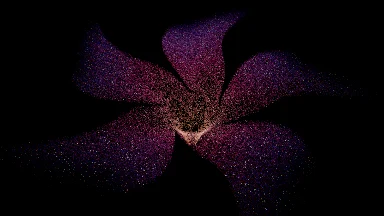
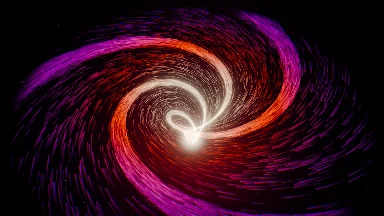
feat: comet trails for particle vortex

diff --git a/src/modes/particle-vortex/index.ts b/src/modes/particle-vortex/index.ts
@@ -1,131 +1,180 @@
 import * as THREE from 'three';
 import type { AudioFeatures } from '../../audio/types';
-import { DotGrid } from '../../engine/field/primitives';
+import { SpectrumHistory, spectrumHistoryGlsl } from '../../engine/field/SpectrumHistory';
+import { Starfield } from '../../engine/field/Starfield';
+import { Streaks } from '../../engine/field/Streaks';
+import { FullscreenPass, renderOver } from '../../engine/fullscreen';
 import { findMode } from '../../engine/ModeRegistry';
 import type { ModeContext, ModeDefinition, VisualMode } from '../../engine/types';
+import { hue, palette, tint } from '../../shared/glsl';
 
-// Fünf Blütenblätter modulieren den Radius
+const ROWS = 60;
+const ARMS = 3;
+
+// Kometenspuren strömen auf Spiralarmen in einen glühenden Trichter
 const glsl = `
-#define DOT_SIZE_FN
-uniform float uSpin;
+${spectrumHistoryGlsl(ROWS)}
+uniform float uFlow;
 uniform float uSuck;
-uniform float uPetal;
-uniform float uTreble;
-uniform float uFlash;
-
+uniform float uSpin;
+uniform float uHue;
 const float TAU = 6.2831853;
-float h21(vec2 p, float k) { return fract(sin(dot(p, vec2(127.1, 311.7)) + k * 74.7) * 43758.5453); }
+const float R_OUT = 3.4;
+const float R_IN = 0.12;
 
-struct P { vec3 pos; float r0; float glitter; };
+float radiusAt(float s) { return mix(R_OUT, R_IN, pow(clamp(s, 0.0, 1.0), 0.75)); }
 
-P particle(vec2 g) {
-  float h1 = h21(g, 1.0), h2 = h21(g, 2.0), h3 = h21(g, 3.0), h4 = h21(g, 4.0);
-  P p;
-  p.r0 = 0.12 + pow(h2, 0.7) * 2.3;
-  float theta = h1 * TAU;
-  // Partikel bündeln sich in fünf Armen, leicht gestreut
-  theta = floor(theta / TAU * 5.0) / 5.0 * TAU + (h4 - 0.5) * (0.5 + 0.4 / p.r0);
-  theta += log(p.r0) * 1.6 + uSpin / pow(0.25 + p.r0, 1.25);
-  float r = p.r0 * (1.0 + 0.16 * sin(5.0 * theta + uPetal));
-  // Bass saugt das Innere ein und lässt es zurückfedern
-  r *= 1.0 - uSuck * 0.28 * exp(-p.r0 * 0.6);
-  float y = -0.6 / (r + 0.3) + 0.35 + (h3 - 0.5) * (0.04 + 0.05 * r);
-  p.pos = vec3(cos(theta) * r, y, sin(theta) * r);
-  p.glitter = h21(g, 5.0) > 0.975 ? 1.0 : 0.0;
-  return p;
+vec3 streakPath(vec4 seed, float s) {
+  float r = radiusAt(s) * (1.0 - uSuck * 0.22 * (1.0 - s));
+  // Drei Arme, ein Teil der Spuren streut frei dazwischen
+  float arm = floor(seed.x * ${ARMS}.0);
+  float free = step(0.72, seed.y);
+  float spread = mix(0.35, 3.14159, free) * (seed.z - 0.5);
+  float th = arm / ${ARMS}.0 * TAU + spread - log(r) * 2.1 + uSpin;
+  // Trichter: je näher am Kern, desto tiefer
+  float y = -0.55 / (r + 0.18) + 0.2 + (seed.w - 0.5) * 0.06 * r;
+  return vec3(cos(th) * r, y, sin(th) * r);
 }
 
-vec3 dotPos(vec2 g) { return particle(g).pos; }
-
-float dotIntensity(vec2 g) {
-  P p = particle(g);
-  float core = exp(-p.r0 * 1.3) * (1.6 + uFlash * 2.5);
-  float tw = p.glitter * (1.5 + 3.0 * uTreble) * (0.5 + 0.5 * sin(uTime * (6.0 + 14.0 * h21(g, 6.0)) + h21(g, 7.0) * 60.0));
-  float edge = smoothstep(2.5, 1.6, p.r0);
-  return (0.55 + core * 1.3 + tw) * edge;
+vec2 streakSpan(vec4 seed) {
+  float len = 0.02 + seed.w * 0.035;
+  float speed = 0.035 + seed.z * 0.03;
+  return vec2(fract(seed.y * 9.7 + seed.x * 3.1 + uFlow * speed) * (1.0 + len), len);
 }
 
-float dotSize(vec2 g) { return particle(g).glitter > 0.5 ? 2.2 : 1.0; }
+float streakWidth(vec4 seed, float s) {
+  return (0.006 + seed.w * 0.01) * (0.5 + radiusAt(s) * 0.35);
+}
 
-vec3 dotColor(vec2 g) {
-  P p = particle(g);
-  vec3 c = pal(clamp(0.28 + 0.52 * exp(-p.r0 * 0.9), 0.0, 1.0));
-  return mix(c, vec3(1.0, 0.97, 0.94), p.glitter * 0.7 + 0.15);
+vec3 streakColor(vec4 seed, float u, float s) {
+  float r = radiusAt(s);
+  float k = clamp(1.0 - r / R_OUT, 0.0, 1.0);
+  // Außen Violett, Mitte Pink, innen Gold bis Weiß
+  vec3 outer = hue2rgb(fract(uHue + 0.7));
+  vec3 mid = hue2rgb(fract(uHue + 0.9));
+  vec3 inner = vec3(1.0, 0.82, 0.55);
+  vec3 c = mix(outer, mid, smoothstep(0.1, 0.55, k));
+  c = mix(c, inner, smoothstep(0.55, 0.9, k));
+  c = mix(c, vec3(1.0), smoothstep(0.9, 1.0, k) * 0.7);
+  float e = specAt(1.0 - k, 0.0);
+  float head = pow(u, 1.4);
+  float fade = smoothstep(0.0, 0.06, s);
+  return tint(c) * (0.08 + e * 0.5 + k * k * 0.6) * head * fade;
+}
+`;
+
+const coreFrag = `
+precision highp float;
+in vec2 vUv;
+uniform vec2 uRes;
+uniform vec2 uCore;
+uniform float uGlow;
+uniform float uHue;
+${palette}
+${tint}
+${hue}
+void main() {
+  vec2 p = (vUv - uCore) * vec2(uRes.x / uRes.y, 1.0);
+  float r = length(p);
+  vec3 col = vec3(1.0, 0.85, 0.6) * exp(-r * r * 900.0) * (1.2 + uGlow * 2.0);
+  col += hue2rgb(fract(uHue + 0.9)) * exp(-r * 9.0) * (0.06 + uGlow * 0.12);
+  col += hue2rgb(fract(uHue + 0.7)) * exp(-r * 2.2) * 0.012;
+  gl_FragColor = vec4(tint(col), 1.0);
 }
 `;
 
 class ParticleVortex implements VisualMode {
   private readonly scene = new THREE.Scene();
-  private readonly camera = new THREE.PerspectiveCamera(42, 1, 0.05, 60);
-  private dots!: DotGrid;
+  private readonly camera = new THREE.PerspectiveCamera(46, 1, 0.05, 100);
+  private history!: SpectrumHistory;
+  private streaks!: Streaks;
+  private stars!: Starfield;
+  private core!: FullscreenPass;
+  private readonly probe = new THREE.Vector3();
+  private height = 1080;
+  private time = 0;
+  private flow = 0;
   private spin = 0;
-  private petal = 0;
   private suck = 0;
   private suckVel = 0;
   private flash = 0;
-  private time = 0;
+  private hue = 0;
 
   init(ctx: ModeContext) {
-    this.dots = new DotGrid({
-      columns: 520,
-      rows: 400,
-      size: 2.2,
+    this.history = new SpectrumHistory(ROWS);
+    this.streaks = new Streaks({
+      count: 12000,
+      segments: 6,
       palette: ctx.palette,
+      paletteMix: ctx.paletteMix,
       glsl,
       uniforms: {
-        uSpin: { value: 0 },
-        uSuck: { value: 0 },
-        uPetal: { value: 0 },
-        uTreble: { value: 0 },
-        uFlash: { value: 0 },
+        uSpecHist: { value: this.history.texture },
+        uFlow: { value: 0 }, uSuck: { value: 0 }, uSpin: { value: 0 }, uHue: { value: 0 },
       },
     });
-    this.dots.uniforms.uFocus.value = 4.2;
-    this.dots.uniforms.uDof.value = 1.6;
-    this.scene.add(this.dots.points);
+    this.core = new FullscreenPass(coreFrag, {
+      uCore: { value: new THREE.Vector2(0.5, 0.5) }, uGlow: { value: 0 }, uHue: { value: 0 },
+      uPalette: { value: ctx.palette }, uPaletteMix: ctx.paletteMix,
+    });
+    this.stars = new Starfield(2500, 80, 0.6);
+    this.scene.add(this.stars.points, this.streaks.mesh);
   }
 
   resize(width: number, height: number) {
+    this.height = height;
     this.camera.aspect = width / height;
     this.camera.updateProjectionMatrix();
-    this.dots.uniforms.uRes.value.set(width, height);
+    this.core.resize(width, height);
   }
 
   update(a: AudioFeatures) {
     const dt = a.dt;
     this.time += dt;
-    this.spin += dt * (0.5 + a.mid * 1.8);
-    this.petal += dt * (0.3 + a.treble * 1.2);
-    // Feder-Dämpfer
+    this.history.update(a);
+    // Feder-Dämpfer: Kicks ziehen den Strudel zusammen
     if (a.beat) {
-      this.suckVel += 3 + a.bassRaw * 5;
+      this.suckVel += 2.5 + a.bassRaw * 4;
       this.flash = 1;
     }
-    this.suckVel += (-this.suck * 60 - this.suckVel * 9) * dt;
+    this.suckVel += (-this.suck * 40 - this.suckVel * 8) * dt;
     this.suck += this.suckVel * dt;
     this.flash *= Math.exp(-dt * 5);
+    this.flow += dt * (1 + a.energy * 2.5 + this.flash * 2);
+    this.spin += dt * (0.15 + a.mid * 0.4);
+    this.hue = (this.hue + dt * 0.005) % 1;
 
-    const u = this.dots.uniforms;
+    const u = this.streaks.uniforms;
     u.uTime.value = this.time;
+    u.uFlow.value = this.flow;
+    u.uSuck.value = this.suck + a.bass * 0.4;
     u.uSpin.value = this.spin;
-    u.uSuck.value = this.suck + a.bass * 0.3;
-    u.uPetal.value = this.petal;
-    u.uTreble.value = a.treble;
-    u.uFlash.value = this.flash;
+    u.uHue.value = this.hue;
 
-    const t = this.time * 0.05;
-    this.camera.position.set(Math.cos(t) * 3.2, 2.7 + Math.sin(this.time * 0.07) * 0.3, Math.sin(t) * 3.2);
-    this.camera.lookAt(0, -0.35, 0);
+    const t = this.time * 0.04;
+    this.camera.position.set(Math.cos(t) * 3.6, 2.9 + Math.sin(this.time * 0.07) * 0.3, Math.sin(t) * 3.6);
+    this.camera.lookAt(0, -0.6, 0);
+    this.camera.updateMatrixWorld();
+    this.stars.update(this.time, this.height);
+
+    // Kernleuchten dort, wo der Trichter endet
+    this.probe.set(0, -1.6, 0).project(this.camera);
+    const c = this.core.uniforms;
+    c.uCore.value.set(this.probe.x * 0.5 + 0.5, this.probe.y * 0.5 + 0.5);
+    c.uGlow.value = this.flash + a.bass * 0.5;
+    c.uHue.value = this.hue;
   }
 
   render(renderer: THREE.WebGLRenderer, target: THREE.WebGLRenderTarget) {
-    renderer.setRenderTarget(target);
-    renderer.clear();
-    renderer.render(this.scene, this.camera);
+    this.core.render(renderer, target);
+    renderOver(renderer, target, this.scene, this.camera);
   }
 
   dispose() {
-    this.dots.dispose();
+    this.history.dispose();
+    this.streaks.dispose();
+    this.stars.dispose();
+    this.core.dispose();
   }
 }
 

diff --git a/src/engine/ModeRegistry.ts b/src/engine/ModeRegistry.ts
@@ -86,7 +86,7 @@ export const MODES: RegistryEntry[] = [
   ),
   mode(
     { id: 'particle-vortex', name: 'Particle Vortex', category: 'particles', gpuCost: 2, vivid: 0.25,
-      description: 'Ein Strudel aus 200 000 Partikeln in Rosenform. Kicks saugen ihn zusammen.' },
+      description: '12,000 comet trails spiral into a glowing funnel. Kicks pull the vortex tight.' },
     () => import('../modes/particle-vortex').then((m) => m.default),
   ),
   mode(
